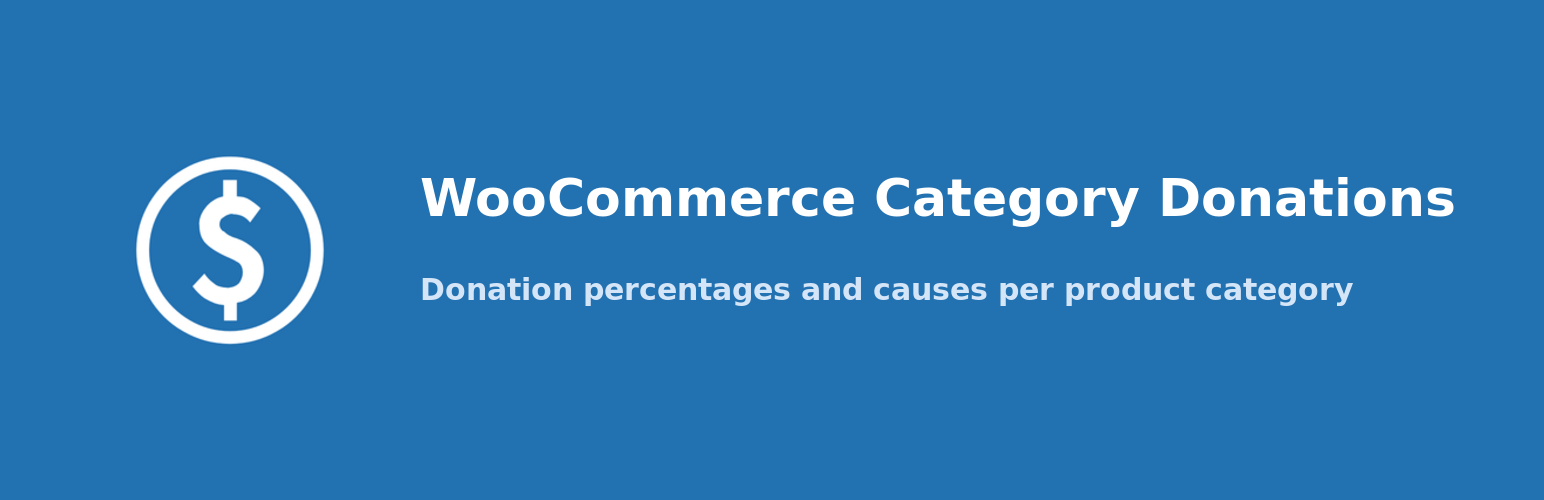
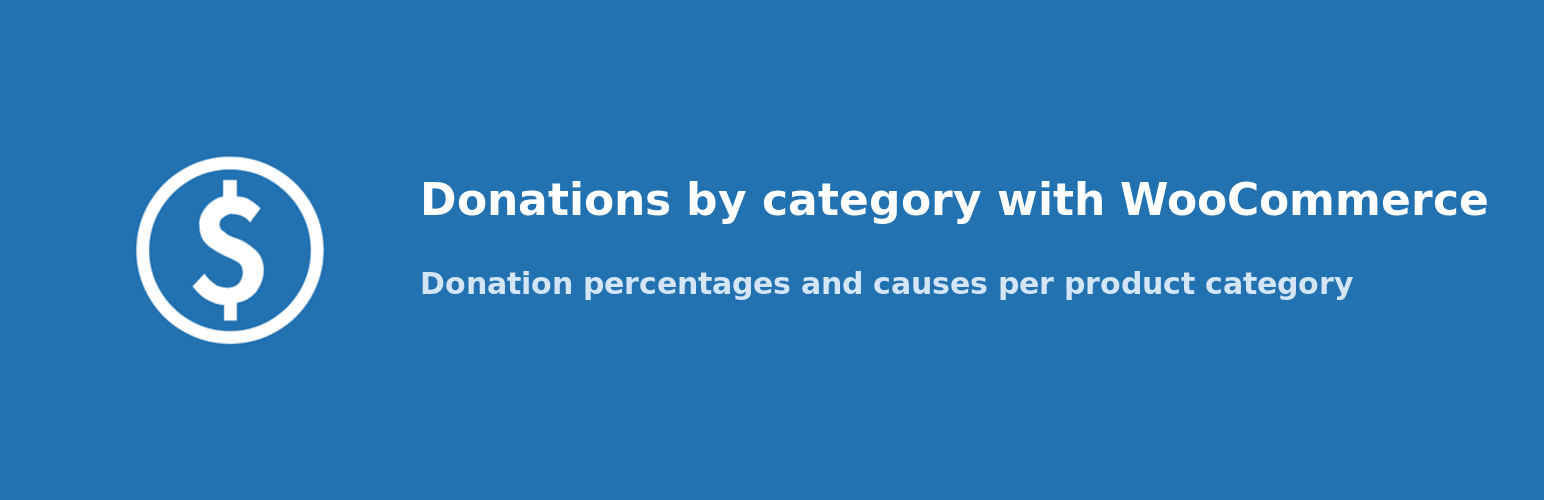
chore: prepare WordPress.org submission (rename, Plugin Check fixes)
Rename the display name to "Donations by category with WooCommerce"
(the WordPress.org trademark rules require one of the allowed patterns
such as "with woocommerce"; code, textdomain and folder slug stay
wc-category-donations). Update the readme title/description, admin
labels, banners and es_ES/gl_ES catalogs accordingly.

Address Plugin Check findings: readme Tested up to now uses major.minor
(7.1), the uninstall variable is prefixed, money cells are kses-escaped,
and the intentional uses (core textdomain 'By %s', nonce-free read-only
inputs, get_submit_button, fclose on the CSV stream) carry phpcs:ignore
comments with rationale. Remaining warnings are documented false
positives: table-name interpolation in $wpdb->prepare() (names cannot
be parameterized) and direct queries on the plugin's own table.

Changed region(s): [[0.2798, 0.36, 0.9637, 0.45], [0.2487, 0.54, 0.8705, 0.6]]

diff --git a/includes/class-wc-category-donations-admin.php b/includes/class-wc-category-donations-admin.php
@@ -40,8 +40,8 @@ class Admin {
 	 */
 	public function register_menu(): void {
 		add_menu_page(
-			__( 'WooCommerce Category Donations', 'wc-category-donations' ),
-			__( 'WooCommerce Category Donations', 'wc-category-donations' ),
+			__( 'Donations by category with WooCommerce', 'wc-category-donations' ),
+			__( 'Donations by category with WooCommerce', 'wc-category-donations' ),
 			'manage_options',
 			self::PAGE,
 			array( $this, 'render_page' ),
@@ -144,7 +144,7 @@ class Admin {
 			);
 		}
 
-		fclose( $output );
+		fclose( $output ); // phpcs:ignore WordPress.WP.AlternativeFunctions.file_system_operations_fclose
 		exit;
 	}
 
@@ -221,7 +221,7 @@ class Admin {
 			echo '<tr>';
 			echo '<td>' . esc_html( $row['category_name'] ) . '</td>';
 			echo '<td>' . esc_html( number_format_i18n( $row['orders'] ) ) . '</td>';
-			echo '<td>' . $this->format_amount( $row['total'] ) . '</td>';
+			echo '<td>' . wp_kses_post( $this->format_amount( $row['total'] ) ) . '</td>';
 			echo '</tr>';
 		}
 
@@ -253,7 +253,7 @@ class Admin {
 			echo '</td>';
 			echo '<td>' . esc_html( $row['created_at'] ) . '</td>';
 			echo '<td>' . esc_html( $row['category_name'] ) . '</td>';
-			echo '<td>' . $this->format_amount( $row['donation_amount'] ) . '</td>';
+			echo '<td>' . wp_kses_post( $this->format_amount( $row['donation_amount'] ) ) . '</td>';
 			echo '</tr>';
 		}
 
@@ -350,7 +350,7 @@ class Admin {
 			return;
 		}
 
-		$tab  = isset( $_GET['tab'] ) ? sanitize_key( wp_unslash( $_GET['tab'] ) ) : 'donations';
+		$tab  = isset( $_GET['tab'] ) ? sanitize_key( wp_unslash( $_GET['tab'] ) ) : 'donations'; // phpcs:ignore WordPress.Security.NonceVerification.Recommended -- read-only tab display
 		$tabs = array(
 			'donations'  => __( 'Donations', 'wc-category-donations' ),
 			'settings'   => __( 'Settings', 'wc-category-donations' ),
@@ -359,7 +359,7 @@ class Admin {
 		);
 		?>
 		<div class="wrap">
-			<h1><?php esc_html_e( 'WooCommerce Category Donations', 'wc-category-donations' ); ?></h1>
+			<h1><?php esc_html_e( 'Donations by category with WooCommerce', 'wc-category-donations' ); ?></h1>
 			<nav class="nav-tab-wrapper">
 				<?php foreach ( $tabs as $key => $label ) : ?>
 					<a
@@ -403,7 +403,8 @@ class Admin {
 		}
 
 		$source_url = 'https://github.com/softfactorIA/wc-category-donations';
-		$by_prefix  = trim( sprintf( __( 'By %s', 'default' ), '' ) );
+		// translators: %s is the plugin author; taken from core ('default') so the label follows the admin locale.
+		$by_prefix  = trim( sprintf( __( 'By %s', 'default' ), '' ) ); // phpcs:ignore WordPress.WP.I18n.TextDomainMismatch,WordPress.WP.I18n.MissingTranslatorsComment
 		$filtered   = array();
 
 		foreach ( $plugin_meta as $meta ) {
@@ -445,7 +446,7 @@ class Admin {
 		?>
 		<h2><?php esc_html_e( 'About', 'wc-category-donations' ); ?></h2>
 		<p>
-			<?php esc_html_e( 'WooCommerce Category Donations adds a donation percentage and a cause to each product category. The donation amount is calculated on the product price before taxes, recorded with the order, and adjusted automatically when orders are refunded or cancelled.', 'wc-category-donations' ); ?>
+			<?php esc_html_e( 'Donations by category with WooCommerce adds a donation percentage and a cause to each product category. The donation amount is calculated on the product price before taxes, recorded with the order, and adjusted automatically when orders are refunded or cancelled.', 'wc-category-donations' ); ?>
 		</p>
 		<p>
 			<?php esc_html_e( 'The Donations tab shows the recorded totals (per category, per year and overall), the list of cancelled donations, and lets you download an annual CSV report. The customer donations summary appears on the user edit screen, and the Settings tab controls the default percentage and the donation message.', 'wc-category-donations' ); ?>
@@ -524,7 +525,7 @@ class Admin {
 	 * Render the donations tab: totals per category plus the grand total.
 	 */
 	private function render_donations_tab(): void {
-		$cancelled = null !== $this->cancel_result ? $this->cancel_result : ( isset( $_GET['wccd_cancelled'] ) ? absint( $_GET['wccd_cancelled'] ) : null );
+		$cancelled = null !== $this->cancel_result ? $this->cancel_result : ( isset( $_GET['wccd_cancelled'] ) ? absint( $_GET['wccd_cancelled'] ) : null ); // phpcs:ignore WordPress.Security.NonceVerification.Recommended -- notice only, absint, set by the nonce-protected action
 
 		if ( null !== $cancelled ) {
 
@@ -555,7 +556,7 @@ class Admin {
 				echo '<tr>';
 				echo '<td>' . esc_html( $row['category_name'] ) . '</td>';
 				echo '<td>' . esc_html( number_format_i18n( $row['orders'] ) ) . '</td>';
-				echo '<td>' . $this->format_amount( $row['total'] ) . '</td>';
+				echo '<td>' . wp_kses_post( $this->format_amount( $row['total'] ) ) . '</td>';
 				echo '</tr>';
 			}
 
@@ -563,7 +564,7 @@ class Admin {
 			echo '<tfoot><tr>';
 			echo '<th scope="row">' . esc_html__( 'Total', 'wc-category-donations' ) . '</th>';
 			echo '<td></td>';
-			echo '<td>' . $this->format_amount( $grand ) . '</td>';
+			echo '<td>' . wp_kses_post( $this->format_amount( $grand ) ) . '</td>';
 			echo '</tr></tfoot>';
 			echo '</table>';
 
@@ -631,7 +632,7 @@ class Admin {
 		echo '<form method="post" action="' . esc_url( admin_url( 'admin.php?page=' . self::PAGE . '&tab=donations' ) ) . '">';
 		echo '<input type="hidden" name="wccd_cancel_order_donations" value="1">';
 		wp_nonce_field( 'wccd_cancel_order_donations' );
-		echo '<p>' . get_submit_button( __( 'Remove donations from cancelled/trashed orders', 'wc-category-donations' ), 'secondary', 'submit', false ) . '</p>';
+		echo '<p>' . get_submit_button( __( 'Remove donations from cancelled/trashed orders', 'wc-category-donations' ), 'secondary', 'submit', false ) . '</p>'; // phpcs:ignore WordPress.Security.EscapeOutput.OutputNotEscaped -- get_submit_button() escapes internally
 		echo '</form>';
 
 		if ( empty( $cancelled ) ) {
@@ -653,7 +654,7 @@ class Admin {
 			echo '<tr>';
 			echo '<td>' . esc_html( '#' . $row['order_id'] ) . '</td>';
 			echo '<td>' . esc_html( $row['category_name'] ) . '</td>';
-			echo '<td>' . $this->format_amount( $row['donation_amount'] ) . '</td>';
+			echo '<td>' . wp_kses_post( $this->format_amount( $row['donation_amount'] ) ) . '</td>';
 			echo '<td>' . esc_html( $row['cancelled_reason'] ) . '</td>';
 			echo '<td>' . esc_html( $row['cancelled_at'] ) . '</td>';
 			echo '</tr>';

diff --git a/uninstall.php b/uninstall.php
@@ -37,10 +37,10 @@ delete_metadata( 'term', 0, 'razas_donation_initial_amount', '', true );
 // Current and legacy order meta (processed refunds), post meta and HPOS.
 $wpdb->query( $wpdb->prepare( "DELETE FROM {$wpdb->postmeta} WHERE meta_key IN (%s, %s)", 'wccd_processed_refunds', 'razas_processed_refunds' ) ); // phpcs:ignore WordPress.DB.DirectDatabaseQuery
 
-$orders_meta_table = $wpdb->prefix . 'wc_orders_meta';
+$wccd_orders_meta_table = $wpdb->prefix . 'wc_orders_meta';
 
-if ( $wpdb->get_var( $wpdb->prepare( 'SHOW TABLES LIKE %s', $orders_meta_table ) ) ) {
-	$wpdb->query( $wpdb->prepare( "DELETE FROM {$orders_meta_table} WHERE meta_key IN (%s, %s)", 'wccd_processed_refunds', 'razas_processed_refunds' ) ); // phpcs:ignore WordPress.DB.DirectDatabaseQuery
+if ( $wpdb->get_var( $wpdb->prepare( 'SHOW TABLES LIKE %s', $wccd_orders_meta_table ) ) ) {
+	$wpdb->query( $wpdb->prepare( "DELETE FROM {$wccd_orders_meta_table} WHERE meta_key IN (%s, %s)", 'wccd_processed_refunds', 'razas_processed_refunds' ) ); // phpcs:ignore WordPress.DB.DirectDatabaseQuery
 }
 
 $wpdb->query( "DROP TABLE IF EXISTS {$wpdb->prefix}wccd_donations" ); // phpcs:ignore WordPress.DB.DirectDatabaseQuery

diff --git a/wc-category-donations.php b/wc-category-donations.php
@@ -1,6 +1,6 @@
 <?php
 /**
- * Plugin Name: WooCommerce Category Donations
+ * Plugin Name: Donations by category with WooCommerce
  * Plugin URI:  https://github.com/softfactorIA/wc-category-donations
  * Description: WooCommerce companion plugin with per-category donation settings and shortcodes.
  * Version:     1.2.0
@@ -56,7 +56,7 @@ function wccd_missing_woocommerce_notice() {
 
 	printf(
 		'<div class="notice notice-error"><p>%s</p></div>',
-		esc_html__( 'WooCommerce Category Donations requires WooCommerce to be installed and active. The plugin is not running.', 'wc-category-donations' )
+		esc_html__( 'Donations by category with WooCommerce requires WooCommerce to be installed and active. The plugin is not running.', 'wc-category-donations' )
 	);
 }
 

diff --git a/includes/class-wc-category-donations-shortcodes.php b/includes/class-wc-category-donations-shortcodes.php
@@ -243,7 +243,7 @@ final class Shortcodes {
 	 * @param mixed $format_value Shortcode format attribute.
 	 */
 	private function render_category_error( $format_value ): string {
-		$message = __( 'WooCommerce Category Donations: no category found. Add a category attribute or use this shortcode on a product category or product page.', 'wc-category-donations' );
+		$message = __( 'Donations by category with WooCommerce: no category found. Add a category attribute or use this shortcode on a product category or product page.', 'wc-category-donations' );
 
 		if ( ! $this->is_formatted( $format_value ) ) {
 			return $message;

diff --git a/includes/class-wc-category-donations-core.php b/includes/class-wc-category-donations-core.php
@@ -1,6 +1,6 @@
 <?php
 /**
- * Core bootstrap and shared API for the WooCommerce Category Donations
+ * Core bootstrap and shared API for the Donations by category with WooCommerce
  * plugin.
  *
  * @package WcCategoryDonations

diff --git a/CHANGELOG.md b/CHANGELOG.md
@@ -5,6 +5,15 @@ All notable changes to this project will be documented in this file.
 The format is based on [Keep a Changelog](https://keepachangelog.com/),
 and this project adheres to [Semantic Versioning](https://semver.org/).
 
+## [Unreleased]
+
+### Changed
+
+- Display name renamed to **Donations by category with WooCommerce**
+  (required by the WordPress.org trademark rules: the name must include
+  "with woocommerce"). Code, textdomain and folder slug stay
+  `wc-category-donations`; the wp.org slug is chosen at submission.
+
 ## [1.2.0] - 2026-09-28
 
 ### Added
